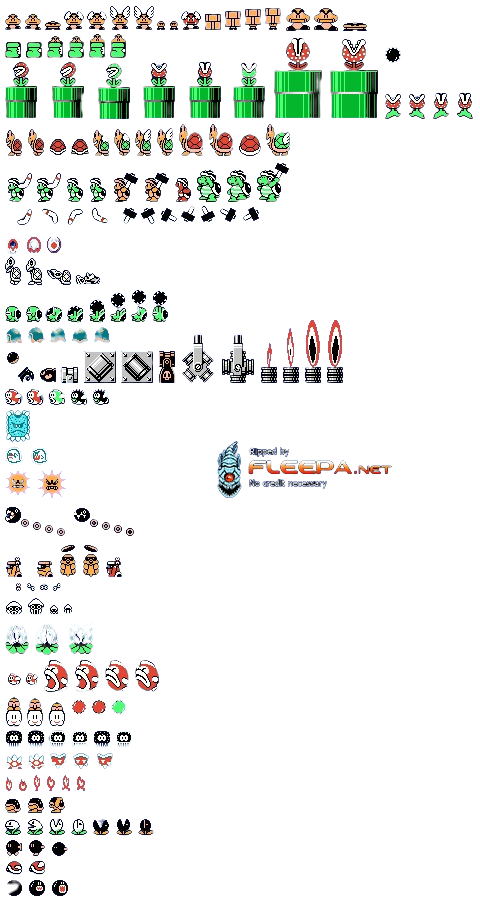
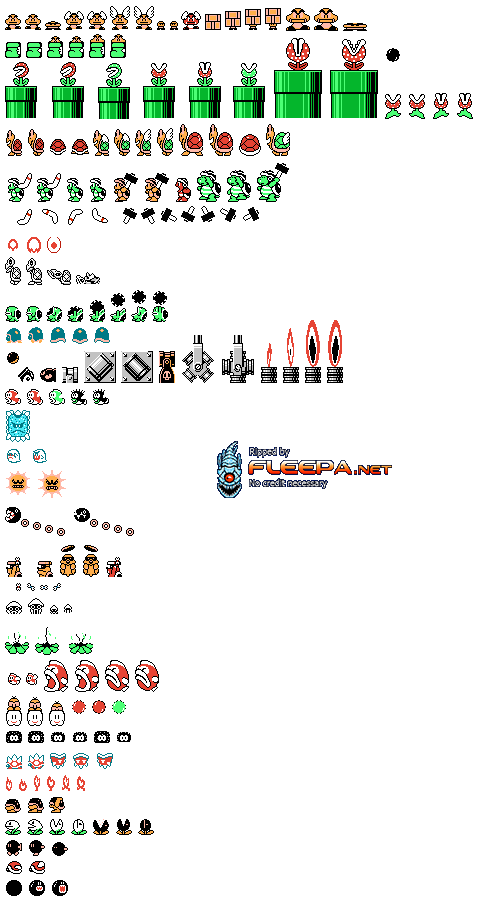
Using Transparent Instead of Alpha Blending Technique

diff --git a/GameUIT/main.cpp b/GameUIT/main.cpp
@@ -45,7 +45,7 @@
 //#define TEXTURES_DIR L"textures"
 #define TEXTURE_PATH_MARIO L"mario_transparent.png"
 #define TEXTURE_PATH_MISC L"misc_transparent.png"
-#define TEXTURE_PATH_ENEMIES L"enemies.png"
+#define TEXTURE_PATH_ENEMIES L"enemies_transparent.png"
 #define TEXTURE_PATH_BRICK L"brick.png"
 
 CMario* mario;
@@ -106,10 +106,10 @@ void LoadResources()
 
 	LPTEXTURE texMisc = textures->Get(ID_TEX_MISC);
 	//Thêm Sprites của cục gạch bí ẩn
-	sprites->Add(20001, 300, 117, 316, 133, texMisc);
-	sprites->Add(20002, 318, 117, 334, 133, texMisc);
-	sprites->Add(20003, 336, 117, 352, 133, texMisc);
-	sprites->Add(20004, 354, 117, 370, 133, texMisc);
+	sprites->Add(20001, 352, 153, 369, 168, texMisc);
+	//sprites->Add(20002, 318, 117, 334, 133, texMisc);
+	//sprites->Add(20003, 336, 117, 352, 133, texMisc);
+	//sprites->Add(20004, 354, 117, 370, 133, texMisc);
 
 	LPTEXTURE texEnemy = textures->Get(ID_TEX_ENEMY);
 	sprites->Add(31001, 4, 13, 22, 30, texEnemy);
@@ -140,9 +140,9 @@ void LoadResources()
 
 	ani = new CAnimation(200);
 	ani->Add(20001, 1000);
-	ani->Add(20002);
-	ani->Add(20003);
-	ani->Add(20004);
+	//ani->Add(20002);
+	//ani->Add(20003);
+	//ani->Add(20004);
 	animations->Add(510, ani);
 	//Chuyển động của cục gạch
 
@@ -153,8 +153,8 @@ void LoadResources()
 
 	mario = new CMario(MARIO_START_X, MARIO_START_Y, MARIO_START_VX);
 	Enemy = new CEnemy(40.0f, 136.0f, 0.05f);
-	for (int i = 0; i < 10; i++)
-		brick[i] = new CBrick(100.0f+16*i, 100.0f);
+	for (int i = 0; i < 20; i++)
+		brick[i] = new CBrick(0.0f+16*i, 150.0f);
 }
 
 /*
@@ -176,19 +176,6 @@ void Render()
 	ID3D10RenderTargetView* pRenderTargetView = g->GetRenderTargetView();
 	ID3DX10Sprite* spriteHandler = g->GetSpriteHandler();
 
-	D3D10_BLEND_DESC blendDesc;
-	ZeroMemory(&blendDesc, sizeof(blendDesc));
-	blendDesc.AlphaToCoverageEnable = FALSE;
-	blendDesc.BlendEnable[0] = TRUE;
-	blendDesc.SrcBlend = D3D10_BLEND_SRC_ALPHA;
-	blendDesc.DestBlend = D3D10_BLEND_INV_SRC_ALPHA;
-	blendDesc.BlendOp = D3D10_BLEND_OP_ADD;
-	blendDesc.SrcBlendAlpha = D3D10_BLEND_ONE;
-	blendDesc.DestBlendAlpha = D3D10_BLEND_ZERO;
-	blendDesc.BlendOpAlpha = D3D10_BLEND_OP_ADD;
-	blendDesc.RenderTargetWriteMask[0] = D3D10_COLOR_WRITE_ENABLE_ALL;
-	ID3D10BlendState* blendState;
-
 	if (pD3DDevice != NULL)
 	{
 		// clear the background 
@@ -196,13 +183,11 @@ void Render()
 
 		spriteHandler->Begin(D3DX10_SPRITE_SORT_TEXTURE);
 
-		pD3DDevice->CreateBlendState(&blendDesc, &blendState);
-
 		// Use Alpha blending for transparent sprites
 		FLOAT NewBlendFactor[4] = { 0,0,0,0 };
-		pD3DDevice->OMSetBlendState(blendState, 0, 0xFFFFFFFF); //0xFFFFFFFF
+		pD3DDevice->OMSetBlendState(g->GetAlphaBlending(), NewBlendFactor, 0xffffffff);
 
-		for (int i = 0; i < 10; i++)
+		for (int i = 0; i < 20; i++)
 			brick[i]->Render();
 		mario->Render();
 		Enemy->Render();

diff --git a/GameUIT/Game.cpp b/GameUIT/Game.cpp
@@ -160,8 +160,8 @@ void CGame::Draw(float x, float y, LPTEXTURE tex, RECT* rect)
 		sprite.TexCoord.x = rect->left / (float)tex->getWidth();
 		sprite.TexCoord.y = rect->top / (float)tex->getHeight();
 
-		spriteWidth = 16;//(rect->right - rect->left);
-		spriteHeight = 16; (rect->bottom - rect->top);
+		spriteWidth = (rect->right - rect->left);
+		spriteHeight = (rect->bottom - rect->top);
 
 		sprite.TexSize.x = spriteWidth / (float)tex->getWidth();
 		sprite.TexSize.y = spriteHeight / (float)tex->getHeight();
